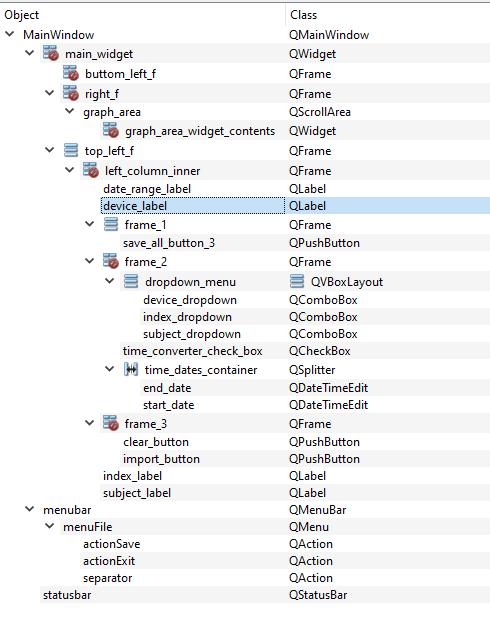
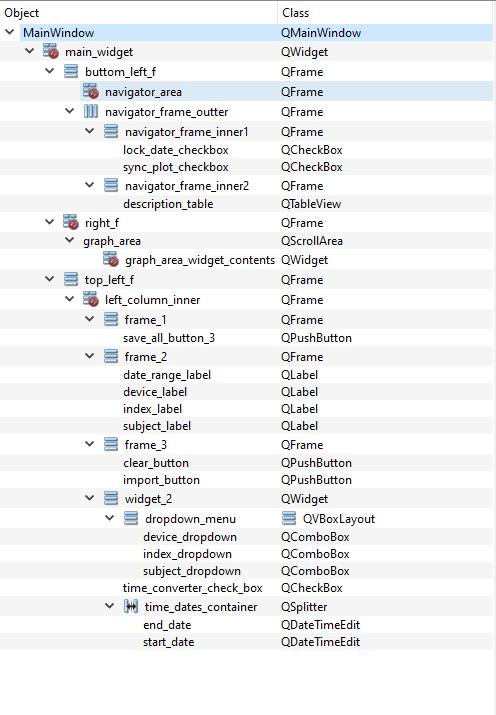
Re-Adjust Main Window

Changed region(s): [[0.0, 0.0, 1.0, 0.9806]]

diff --git a/src/gui/MainWindow.py b/src/gui/MainWindow.py
@@ -83,7 +83,7 @@ class UI_MainWindow(object):
         self.MainWindow = MainWindow
 
         self.MainWindow.setObjectName("MainWindow")
-        self.MainWindow.resize(1755, 773)
+        self.MainWindow.resize(1755, 769)
         # self.MainWindow.setStyleSheet("")
 
         """"
@@ -97,8 +97,7 @@ class UI_MainWindow(object):
         # Main Frames (Containers)
         """
         self.bottom_left_f = QtWidgets.QFrame(self.main_widget)
-        self.bottom_left_f.setGeometry(QtCore.QRect(50, 360, 381, 371))
-        # self.bottom_left_f.setStyleSheet("background-color: rgb(255, 255, 255);")
+        self.bottom_left_f.setGeometry(QtCore.QRect(20, 330, 451, 401))
         self.bottom_left_f.setFrameShape(QtWidgets.QFrame.StyledPanel)
         self.bottom_left_f.setFrameShadow(QtWidgets.QFrame.Raised)
         self.bottom_left_f.setObjectName("bottom_left_f")
@@ -111,16 +110,25 @@ class UI_MainWindow(object):
         self.right_f.setObjectName("right_f")
 
         self.top_left_f = QtWidgets.QFrame(self.main_widget)
-        self.top_left_f.setGeometry(QtCore.QRect(9, 9, 471, 351))
+        self.top_left_f.setGeometry(QtCore.QRect(-10, 10, 481, 311))
         self.top_left_f.setFrameShape(QtWidgets.QFrame.StyledPanel)
         self.top_left_f.setFrameShadow(QtWidgets.QFrame.Raised)
         self.top_left_f.setObjectName("top_left_f")
 
         """
+        Size Policy
+        """
+        size_policy = QtWidgets.QSizePolicy(QtWidgets.QSizePolicy.Fixed, QtWidgets.QSizePolicy.Fixed)
+        size_policy.setHorizontalStretch(0)
+        size_policy.setVerticalStretch(0)
+        size_policy.setHeightForWidth(self.bottom_left_f.sizePolicy().hasHeightForWidth())
+        self.bottom_left_f.setSizePolicy(size_policy)
+
+        """
         # Graph Area
         """
         self.graph_area = QtWidgets.QScrollArea(self.right_f)
-        self.graph_area.setGeometry(QtCore.QRect(10, 10, 1231, 701))
+        self.graph_area.setGeometry(QtCore.QRect(0, 0, 1251, 721))
         self.graph_area.setStyleSheet("background-color: rgb(21,26,30);")
         self.graph_area.setWidgetResizable(True)
         self.graph_area.setObjectName("graph_area")
@@ -129,7 +137,7 @@ class UI_MainWindow(object):
         Widget Contents
         """
         self.graph_area_widget_contents = QtWidgets.QWidget()
-        self.graph_area_widget_contents.setGeometry(QtCore.QRect(0, 0, 1229, 699))
+        self.graph_area_widget_contents.setGeometry(QtCore.QRect(0, 0, 1249, 719))
         self.graph_area_widget_contents.setObjectName("graph_area_widget_contents")
         self.graph_area_widget_contents.setStyleSheet("background-color: rgb(21,26,30);")
         self.graph_area.setWidget(self.graph_area_widget_contents)
@@ -143,50 +151,49 @@ class UI_MainWindow(object):
         # Inner Frames
         """
         self.frame_1 = QtWidgets.QFrame(self.left_column_inner)
-        self.frame_1.setGeometry(QtCore.QRect(0, 240, 401, 56))
+        self.frame_1.setGeometry(QtCore.QRect(30, 200, 431, 41))
         self.frame_1.setObjectName("frame_1")
 
         self.frame_2 = QtWidgets.QFrame(self.left_column_inner)
-        self.frame_2.setGeometry(QtCore.QRect(90, 60, 341, 171))
+        self.frame_2.setGeometry(QtCore.QRect(30, 60, 121, 111))
         self.frame_2.setFrameShape(QtWidgets.QFrame.StyledPanel)
         self.frame_2.setFrameShadow(QtWidgets.QFrame.Raised)
         self.frame_2.setObjectName("frame_2")
 
         self.frame_3 = QtWidgets.QFrame(self.left_column_inner)
-        self.frame_3.setGeometry(QtCore.QRect(1, 1, 391, 56))
+        self.frame_3.setGeometry(QtCore.QRect(30, 0, 431, 61))
         self.frame_3.setObjectName("frame_3")
 
         """
         # Labels Frames
         """
-        self.index_label = QtWidgets.QLabel(self.left_column_inner)
+        self.index_label = QtWidgets.QLabel(self.frame_2)
         self.index_label.setGeometry(QtCore.QRect(10, 70, 39, 16))
         self.index_label.setObjectName("index_label")
 
-        self.date_range_label = QtWidgets.QLabel(self.left_column_inner)
+        self.date_range_label = QtWidgets.QLabel(self.frame_2)
         self.date_range_label.setGeometry(QtCore.QRect(10, 160, 71, 16))
         self.date_range_label.setObjectName("date_range_label")
 
-        self.subject_label = QtWidgets.QLabel(self.left_column_inner)
+        self.subject_label = QtWidgets.QLabel(self.frame_2)
         self.subject_label.setGeometry(QtCore.QRect(10, 100, 52, 16))
         self.subject_label.setObjectName("subject_label")
 
-        self.device_label = QtWidgets.QLabel(self.left_column_inner)
+        self.device_label = QtWidgets.QLabel(self.frame_2)
         self.device_label.setGeometry(QtCore.QRect(10, 130, 41, 16))
         self.device_label.setObjectName("device_label")
 
         """
         # Layout Widget For Dropdown Menus
         """
-        self.layout_dropdown_widget = QtWidgets.QWidget(self.frame_2)
-        self.layout_dropdown_widget.setGeometry(QtCore.QRect(0, 10, 281, 80))
+        self.layout_dropdown_widget = QtWidgets.QWidget(self.left_column_inner)
+        self.layout_dropdown_widget.setGeometry(QtCore.QRect(150, 60, 311, 141))
         self.layout_dropdown_widget.setObjectName("layout_dropdown_widget")
 
         """
         # Dropdown Menus
         """
-        self.dropdown_menu = QtWidgets.QVBoxLayout(self.layout_dropdown_widget)
-        self.dropdown_menu.setContentsMargins(0, 0, 0, 0)
+        self.dropdown_menu = QtWidgets.QVBoxLayout()
         self.dropdown_menu.setObjectName("dropdown_menu")
 
         """
@@ -208,8 +215,7 @@ class UI_MainWindow(object):
         # Time Dates Container
         """
         # Container
-        self.time_dates_container = QtWidgets.QSplitter(self.frame_2)
-        self.time_dates_container.setGeometry(QtCore.QRect(0, 100, 294, 20))
+        self.time_dates_container = QtWidgets.QSplitter(self.layout_dropdown_widget)
         self.time_dates_container.setOrientation(QtCore.Qt.Horizontal)
         self.time_dates_container.setObjectName("time_dates_container")
 
@@ -227,17 +233,16 @@ class UI_MainWindow(object):
 
 
         # Time Range
-        self.time_converter_check_box = QtWidgets.QCheckBox(self.frame_2)
-        self.time_converter_check_box.setGeometry(QtCore.QRect(0, 130, 121, 16))
+        self.time_converter_check_box = QtWidgets.QCheckBox(self.layout_dropdown_widget)
         self.time_converter_check_box.setObjectName("time_converter_check_box")
         self.time_converter_check_box.setChecked(True)
+        
         
         """
         # UI Buttons Container
         """
         # Frame 1
         self.select_button = QtWidgets.QPushButton(self.frame_1)
-        # self.select_button.setStyleSheet("background-color: rgb(255, 255, 255);")
         self.select_button.setObjectName("select_button")
 
         self.select_button_container = QtWidgets.QVBoxLayout(self.frame_1)
@@ -247,13 +252,11 @@ class UI_MainWindow(object):
         # Frame 2
         self.import_button = QtWidgets.QPushButton(self.frame_3)
         self.import_button.setGeometry(QtCore.QRect(9, 9, 381, 19))
-        # self.import_button.setStyleSheet("background-color: rgb(255, 255, 255);")
         self.import_button.setObjectName("import_button")
 
         # Frame 3
         self.clear_button = QtWidgets.QPushButton(self.frame_3)
         self.clear_button.setGeometry(QtCore.QRect(9, 31, 381, 19))
-        # self.clear_button.setStyleSheet("background-color: rgb(255, 255, 255);")
         self.clear_button.setObjectName("clear_button")
 
         """
@@ -275,20 +278,98 @@ class UI_MainWindow(object):
         self.action_save = QtWidgets.QAction(self.MainWindow)
         self.action_save.setObjectName("action_exit")
 
-        self.menu_file = QtWidgets.QMenu(self.menu_bar)
-        self.menu_file.setAutoFillBackground(False)
-        self.menu_file.setTearOffEnabled(False)
-        self.menu_file.setSeparatorsCollapsible(True)
-        self.menu_file.setObjectName("menu_file")
-        self.menu_file.addAction(self.action_save)
-        self.menu_file.addAction(self.action_exit)
-        self.menu_file.addSeparator()
-        self.menu_bar.addAction(self.menu_file.menuAction())
-
         self.MainWindow.setCentralWidget(self.main_widget)
         self.MainWindow.setMenuBar(self.menu_bar)
         self.MainWindow.setStatusBar(self.status_bar)
+        
+        """
+        # New Navigator
+        """
+        self.navigator_frame_outter = QtWidgets.QFrame(self.bottom_left_f)
+        self.navigator_frame_outter.setFrameShape(QtWidgets.QFrame.StyledPanel)
+        self.navigator_frame_outter.setFrameShadow(QtWidgets.QFrame.Raised)
+        self.navigator_frame_outter.setObjectName("navigator_frame_outter")
 
+        self.navigator_frame_inner1 = QtWidgets.QFrame(self.navigator_frame_outter)
+        self.navigator_frame_inner1.setFrameShape(QtWidgets.QFrame.StyledPanel)
+        self.navigator_frame_inner1.setFrameShadow(QtWidgets.QFrame.Raised)
+        self.navigator_frame_inner1.setObjectName("navigator_frame_inner1")
+        
+        self.navigator_frame_inner2 = QtWidgets.QFrame(self.navigator_frame_outter)
+        self.navigator_frame_inner2.setFrameShape(QtWidgets.QFrame.StyledPanel)
+        self.navigator_frame_inner2.setFrameShadow(QtWidgets.QFrame.Raised)
+        self.navigator_frame_inner2.setObjectName("navigator_frame_inner2")
+        
+        """
+        Navigator Checkboxes
+        """
+        self.sync_plot_checkbox = QtWidgets.QCheckBox(self.navigator_frame_inner1)
+        self.sync_plot_checkbox.setObjectName("sync_plot_checkbox")
+        
+        self.lock_date_checkbox = QtWidgets.QCheckBox(self.navigator_frame_inner1)
+        self.lock_date_checkbox.setObjectName("lock_date_checkbox")
+        
+        self.description_table = QtWidgets.QTableView(self.navigator_frame_inner2)
+        self.description_table.setObjectName("description_table")
+        
+        self.navigator_area = QtWidgets.QFrame(self.bottom_left_f)
+        self.navigator_area.setFrameShape(QtWidgets.QFrame.StyledPanel)
+        self.navigator_area.setFrameShadow(QtWidgets.QFrame.Raised)
+        self.navigator_area.setObjectName("navigator_area")
+        
+        """
+        Navigator Layouts
+        """
+        self.horizontalLayout = QtWidgets.QHBoxLayout(self.navigator_frame_outter)
+        self.horizontalLayout.setObjectName("horizontalLayout")
+        self.horizontalLayout.addWidget(self.navigator_frame_inner1)
+        self.horizontalLayout.addWidget(self.navigator_frame_inner2)
+        
+        self.verticalLayout_2 = QtWidgets.QVBoxLayout(self.navigator_frame_inner2)
+        self.verticalLayout_2.setObjectName("verticalLayout_2")
+        self.verticalLayout_2.addWidget(self.description_table)
+        
+        self.verticalLayout_5 = QtWidgets.QVBoxLayout(self.navigator_frame_inner1)
+        self.verticalLayout_5.setObjectName("verticalLayout_5")
+        self.verticalLayout_5.addWidget(self.sync_plot_checkbox)
+        self.verticalLayout_5.addWidget(self.lock_date_checkbox)
+        
+        self.verticalLayout_6 = QtWidgets.QVBoxLayout(self.bottom_left_f)
+        self.verticalLayout_6.setObjectName("verticalLayout_6")
+        self.verticalLayout_6.addWidget(self.navigator_frame_outter)
+        self.verticalLayout_6.addWidget(self.navigator_area)
+
+        self.top_vertical_layout = QtWidgets.QVBoxLayout(self.top_left_f)
+        self.top_vertical_layout.setObjectName("verticalLayout")
+        self.top_vertical_layout.addWidget(self.left_column_inner)
+        
+        self.top_vertical_layout_3 = QtWidgets.QVBoxLayout(self.layout_dropdown_widget)
+        self.top_vertical_layout_3.setObjectName("verticalLayout_3")
+        self.top_vertical_layout_3.addLayout(self.dropdown_menu)
+        self.top_vertical_layout_3.addWidget(self.time_dates_container)
+        self.top_vertical_layout_3.addWidget(self.time_converter_check_box)
+        
+        self.top_vertical_layout_4 = QtWidgets.QVBoxLayout(self.frame_2)
+        self.top_vertical_layout_4.setObjectName("verticalLayout_4")
+        self.top_vertical_layout_4.addWidget(self.index_label)
+        self.top_vertical_layout_4.addWidget(self.subject_label)
+        self.top_vertical_layout_4.addWidget(self.device_label)
+        self.top_vertical_layout_4.addWidget(self.date_range_label)
+        
+        self.top_vertical_layout_7 = QtWidgets.QVBoxLayout(self.frame_3)
+        self.top_vertical_layout_7.setObjectName("verticalLayout_7")
+        self.top_vertical_layout_7.addWidget(self.import_button)
+        self.top_vertical_layout_7.addWidget(self.clear_button)
+
+        """
+        Size Policy
+        """
+        sizePolicy = QtWidgets.QSizePolicy(QtWidgets.QSizePolicy.Fixed, QtWidgets.QSizePolicy.Fixed)
+        sizePolicy.setHorizontalStretch(0)
+        sizePolicy.setVerticalStretch(0)
+        sizePolicy.setHeightForWidth(self.description_table.sizePolicy().hasHeightForWidth())
+        self.description_table.setSizePolicy(sizePolicy)
+        
         self.set_ui_naming(self.MainWindow)
         QtCore.QMetaObject.connectSlotsByName(self.MainWindow)
 
@@ -305,10 +386,9 @@ class UI_MainWindow(object):
         self.clear_button.setText(_translate("MainWindow", "Clear Data"))
         self.index_label.setText(_translate("MainWindow", "Index  "))
         self.date_range_label.setText(_translate("MainWindow", "Date Range"))
-        self.menu_file.setTitle(_translate("MainWindow", "File"))
-        self.action_import.setText(_translate("MainWindow", "Import"))
-        self.action_exit.setText(_translate("MainWindow", "Exit"))
-        self.action_save.setText(_translate("MainWindow", "Save"))
+        self.action_import.setText(_translate("MainWindow", "Import"))   
+        self.sync_plot_checkbox.setText(_translate("MainWindow", " Sync All Graphs"))
+        self.lock_date_checkbox.setText(_translate("MainWindow", "Lock Date Axis"))
 
 
 if __name__ == "__main__":
